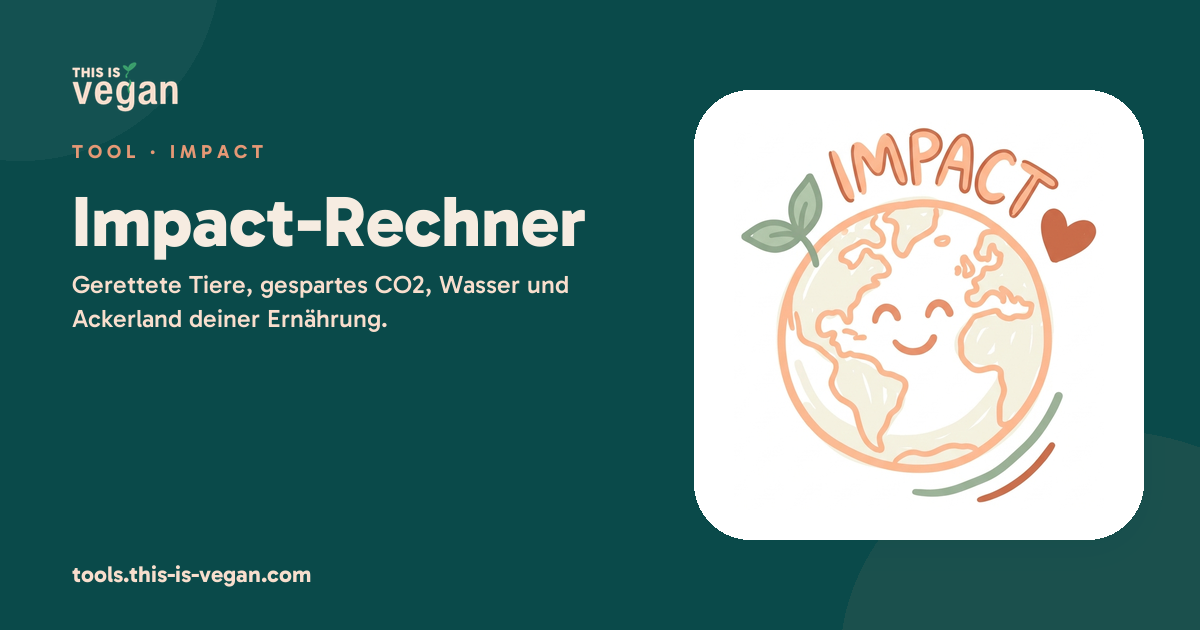
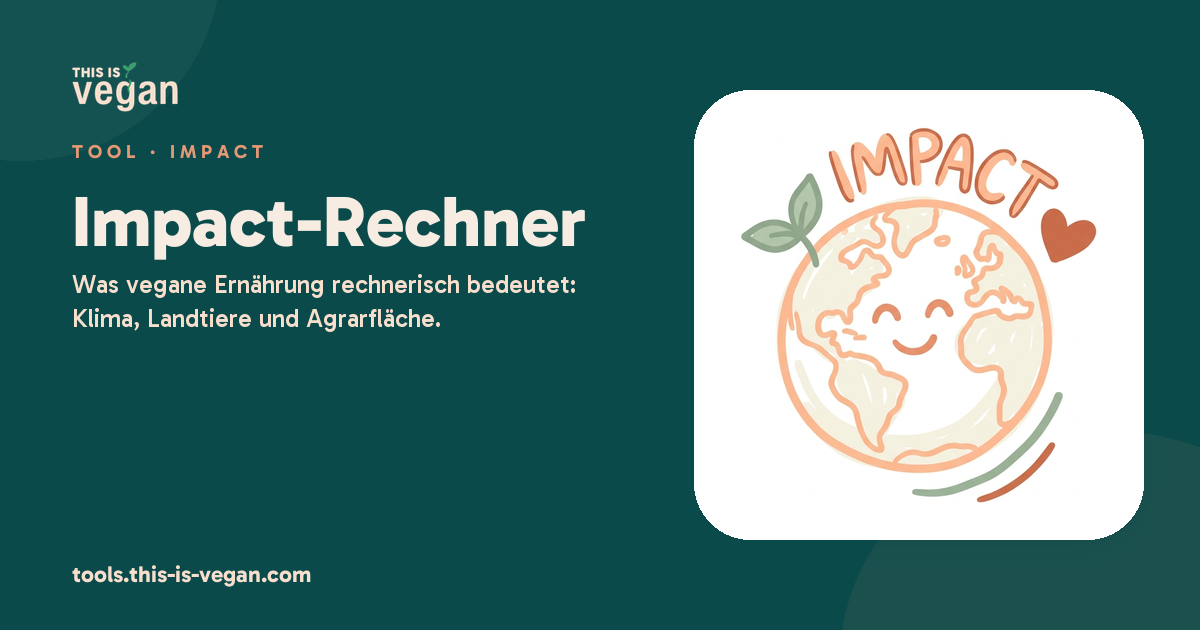
Impact-Rechner auf evidenzgepruefte Werte umgestellt (Stand 26.11.2026)
Klima 2,2 kg CO2e pro Tag (UBA-CO2-Rechner 2025), rund 7 Landtiere pro Jahr
(Destatis PM 049/2024, rechnerisch, abgerundet auf volle Tiere), rund 990 m2
Agrarflaeche als feste Groesse (WWF Deutschland 2021). Wasser-Kachel entfaellt,
Methodik-Box mit Quellen-Links und Einschraenkungen. FAQ-Schema, Meta-Texte,
Startseiten-Karte und Link-Vorschaukarte angepasst. Drei Karten: unter 420 px
einspaltig, ab 760 px dreispaltig.

Changed region(s): [[0.0617, 0.4222, 0.4933, 0.5429]]

diff --git a/build.py b/build.py
@@ -391,7 +391,11 @@ footer.site{margin-top:46px;border-top:1px solid var(--line);padding:32px 0 90px
 .iunit input{font-family:var(--serif);font-weight:700;font-size:24px;width:120px;text-align:center;border:2px solid var(--cream);border-radius:13px;padding:12px;background:var(--cream);color:var(--ink)}
 .iunit input:focus{outline:none;border-color:var(--green)}
 .stats{display:grid;grid-template-columns:repeat(2,1fr);gap:14px;margin:30px auto 0;max-width:760px}
-@media(min-width:760px){.stats{grid-template-columns:repeat(4,1fr)}}
+.stat:nth-child(3):last-child{grid-column:1/-1}
+@media(max-width:419px){.stats{grid-template-columns:1fr}}
+@media(min-width:760px){.stats{grid-template-columns:repeat(3,1fr)}.stat:nth-child(3):last-child{grid-column:auto}}
+.infobox p+p{margin-top:10px}
+.infobox a{color:var(--green-deep);font-weight:700}
 .stat{background:#fff;color:var(--ink);border:1px solid var(--cardline);border-radius:18px;padding:22px 16px;text-align:center;box-shadow:0 14px 34px -28px rgba(0,0,0,.4)}
 .stat .snum{font-family:var(--serif);font-weight:700;font-size:clamp(26px,5vw,40px);letter-spacing:-.5px;line-height:1;color:var(--green-deep)}
 .stat .slabel{font-family:'Bricolage Grotesque';font-weight:700;font-size:14px;margin-top:9px;color:var(--ink)}
@@ -674,13 +678,15 @@ function fmt(x){ return Math.round(x).toLocaleString('de-DE'); }
 function card(n,l,e){ return '<div class="stat"><div class="snum">'+n+'</div><div class="slabel">'+l+'</div><div class="seq">'+e+'</div></div>'; }
 function render(){
   const d = days();
-  const animals = P.animals*d, co2 = P.co2_kg*d, water = P.water_l*d, land = P.land_m2*d;
-  const co2str = co2>=1000 ? fmt(co2/1000)+' t' : fmt(co2)+' kg';
+  // Klima summiert sich ueber die Tage. Landtiere: nur volle Tiere (abgerundet). Flaeche: feste Groesse, kein Tageswert.
+  const co2 = P.co2_kg_pro_tag*d;
+  const animals = Math.floor(P.landtiere_pro_jahr*d/365 + 1e-9);
+  const dec = x => x.toLocaleString('de-DE',{maximumFractionDigits:1});
+  const co2str = co2>=1000 ? dec(co2/1000)+' t' : (co2<10 ? dec(co2) : fmt(co2))+' kg';
   document.getElementById('stats').innerHTML =
-    card(fmt(animals), 'Tiere gerettet', 'die meisten davon Fische') +
-    card(co2str, 'CO2 gespart', 'wie rund '+fmt(co2/0.12)+' km im Auto') +
-    card(fmt(water)+' L', 'Wasser gespart', 'rund '+fmt(water/150)+' volle Badewannen') +
-    card(fmt(land)+' m²', 'Ackerland gespart', 'das sonst für Tierfutter draufginge');
+    card(co2str, 'Weniger Treibhausgase', dec(P.co2_kg_pro_tag)+' kg CO2e pro Tag, verglichen mit der durchschnittlichen Ernährung in Deutschland') +
+    card(fmt(animals), 'Landtiere, rechnerisch', 'rund '+fmt(P.landtiere_pro_jahr)+' pro Jahr, überwiegend Hühner. Fische sind nicht mitgezählt') +
+    card(fmt(P.flaeche_m2)+' m²', 'Weniger Agrarfläche', 'gerundet, dauerhaft. Feste Größe, die sich nicht über die Tage summiert');
 }
 const inp = document.getElementById('amt');
 if(inp){ inp.addEventListener('input', ()=>{ const v=parseFloat(inp.value); if(v>0 && v<100000){ amount=v; render(); } }); }
@@ -1782,7 +1788,7 @@ def build_hub(meta, adds, ings, nutrients):
     <a class="toolcard" href="{url(IMPACT_BASE)}">
       <span class="badge">Live</span>
       <h3>Impact-Rechner</h3>
-      <p>Sieh, was deine vegane Ernährung bewegt: gerettete Tiere, gespartes CO2, Wasser und Ackerland. Zeitraum eingeben, Ergebnis teilen.</p>
+      <p>Sieh, was deine vegane Ernährung rechnerisch bewegt: Klima, Landtiere und Agrarfläche, mit Quellen. Zeitraum eingeben, Ergebnis sehen.</p>
       <span class="meta">Wirkung sehen →</span>
     </a>
     <a class="toolcard" href="{url(FOOD_BASE)}">
@@ -2997,13 +3003,21 @@ IMPACT_BASE = "/impact-rechner/"
 
 
 def build_impact(meta):
-    js = IMPACT_JS.replace("__DATA__", json.dumps(meta["per_day"], ensure_ascii=False, separators=(",", ":")))
+    js = IMPACT_JS.replace("__DATA__", json.dumps(meta["werte"], ensure_ascii=False, separators=(",", ":")))
+    m = meta["methodik"]
+    methodik_html = f'<p><b>So rechnen wir:</b> {esc(m["einleitung"])}</p>' + "".join(
+        f'<p><b>{esc(g["name"])}:</b> {esc(g["text"])} Quelle: '
+        f'<a href="{esc(g["url"])}" target="_blank" rel="noopener">{esc(g["quelle"])}</a>.</p>'
+        for g in m["groessen"]
+    ) + "".join(
+        f'<p><b>{esc(h["name"])}:</b> {esc(h["text"])}</p>' for h in m["hinweise"]
+    ) + f'<p>Stand der Prüfung: {esc(german_date(meta["lastUpdated"]))}.</p>'
     body = site_header("Impact-Rechner") + f"""
 <nav class="crumbs" aria-label="Breadcrumb"><a href="{url('/')}">Tools</a><span>›</span>Impact-Rechner</nav>
 <section class="hero">
   <div class="eyebrow">Zahlen, die motivieren</div>
   <h1>Was du wirklich <span class="q">bewegst.</span></h1>
-  <p class="sub">Gib ein, wie lange du schon vegan lebst, und sieh, was das für Tiere, Klima, Wasser und Ackerland bedeutet.</p>
+  <p class="sub">Gib ein, wie lange du schon vegan lebst, und sieh, was das rechnerisch für Klima, Tiere und Agrarfläche bedeutet.</p>
 
   <div class="iunit">
     <input id="amt" type="number" value="1" min="1" max="99999" inputmode="numeric" aria-label="Zeitraum">
@@ -3015,13 +3029,13 @@ def build_impact(meta):
   </div>
 
   <div class="stats" id="stats"></div>
-  <div class="infobox" style="margin-left:auto;margin-right:auto"><b>So rechnen wir:</b> {esc(meta["methodik"])}</div>
+  <div class="infobox" style="margin-left:auto;margin-right:auto;text-align:left">{methodik_html}</div>
 </section>
 
 <section class="section">
-  <h2>Warum jeder Tag zählt</h2>
-  <p class="prose">Diese Zahlen sind keine Abrechnung, sondern eine Erinnerung. Jede Mahlzeit ohne tierische Produkte senkt die Nachfrage, und Nachfrage ist am Ende das Einzige, worauf die Lebensmittelindustrie reagiert. Du musst nicht perfekt sein, damit sich etwas bewegt.</p>
-  <p class="prose">Teil dein Ergebnis mit Leuten, die noch zögern. Konkrete Zahlen überzeugen oft mehr als jedes Argument.</p>
+  <h2>So liest du die Zahlen</h2>
+  <p class="prose">Klima und Landtiere summieren sich über die Zeit: Jeder vegane Tag zählt rechnerisch mit. Die Fläche summiert sich nicht. Eine vegane Ernährung beansprucht dauerhaft rund 990 m² weniger Agrarfläche, nach einem Monat genauso wie nach zehn Jahren.</p>
+  <p class="prose">Alle Werte sind Durchschnittswerte für Deutschland und bewusst vorsichtig gewählt. Beim Klima kommen andere Quellen auf mehr, etwa WWF Deutschland 2021 auf rund 3,4 kg CO2e pro Tag. Die Quellen und alles, was nicht mitgezählt ist, stehen oben unter „So rechnen wir“.</p>
 </section>
 
 <section class="section">
@@ -3043,17 +3057,21 @@ def build_impact(meta):
             "applicationCategory": "LifestyleApplication",
             "operatingSystem": "Web",
             "offers": {"@type": "Offer", "price": "0", "priceCurrency": "EUR"},
-            "description": "Zeigt, wie viele Tiere, wie viel CO2, Wasser und Ackerland eine vegane Ernährung über einen Zeitraum spart.",
+            "description": "Zeigt für einen Zeitraum, was eine vegane gegenüber der durchschnittlichen Ernährung in Deutschland rechnerisch bedeutet: Treibhausgase, Landtiere und Agrarfläche, mit Quellen.",
             "publisher": {"@type": "Organization", "name": "This Is Vegan", "url": MAIN_SITE},
         },
         {
             "@context": "https://schema.org",
             "@type": "FAQPage",
             "mainEntity": [
-                {"@type": "Question", "name": "Wie viele Tiere rettet man als Veganer?",
-                 "acceptedAnswer": {"@type": "Answer", "text": "Konservativ geschätzt rund 100 Tiere pro Jahr, der größte Teil davon Fische und Meerestiere. Die Zahl beruht auf vermiedener Nachfrage und schwankt je nach Quelle zwischen etwa 30 und über 400."}},
-                {"@type": "Question", "name": "Wie viel CO2 spart eine vegane Ernährung?",
-                 "acceptedAnswer": {"@type": "Answer", "text": "Im Vergleich zu einer durchschnittlichen Ernährung rund 2,5 kg CO2-Äquivalent pro Tag, also etwa 0,9 Tonnen im Jahr. Studien zur Ernährungs-Ökobilanz nennen je nach Annahmen unterschiedliche Werte."}},
+                {"@type": "Question", "name": "Wie viel CO2 verursacht eine vegane Ernährung weniger?",
+                 "acceptedAnswer": {"@type": "Answer", "text": "Im Vergleich zur durchschnittlichen Ernährung in Deutschland rund 2,2 kg CO2-Äquivalente pro Tag, also 0,81 Tonnen im Jahr. Grundlage ist der CO2-Rechner des Umweltbundesamts (Datenstand 2025): 1,57 Tonnen gegenüber 0,76 Tonnen pro Person und Jahr. Andere Studien nennen höhere Werte, WWF Deutschland 2021 etwa rund 3,4 kg pro Tag."}},
+                {"@type": "Question", "name": "Wie viele Landtiere entfallen rechnerisch auf die Ernährung einer Person in Deutschland?",
+                 "acceptedAnswer": {"@type": "Answer", "text": "Rechnerisch rund 7 Landtiere pro Person und Jahr, überwiegend Hühner. Grundlage sind die Schlachtzahlen des Statistischen Bundesamts für 2023 (rund 750 Millionen Landtiere), umgerechnet über den Verzehr pro Kopf laut BLE. Fische und männliche Küken sind nicht mitgezählt. Die Zahl ist ein Durchschnittswert, einem einzelnen Menschen lässt sich kein einzelnes Tier zuordnen."}},
+                {"@type": "Question", "name": "Wie viel Fläche braucht eine vegane Ernährung weniger?",
+                 "acceptedAnswer": {"@type": "Answer", "text": "Rund 990 m² Agrarfläche weniger, dauerhaft. WWF Deutschland (2021) nennt 2.022 m² pro Person und Jahr für die derzeitige und 1.030 m² für eine vegane Ernährungsweise. Das ist kein Tageswert, der sich aufsummiert, sondern eine feste Größe."}},
+                {"@type": "Question", "name": "Warum zeigt der Rechner keine Wasserzahl?",
+                 "acceptedAnswer": {"@type": "Answer", "text": "Weil es dafür keine belastbare Grundlage gibt. Belegt sind in britischen Daten 370 bis 480 Liter pro Tag beim gesamten Wasserverbrauch, überwiegend Regenwasser. Beim knappen Bewässerungswasser findet eine Meta-Analyse nur 11,6 % weniger, einzelne Studien für Deutschland gar keinen Vorteil."}},
             ],
         },
         {
@@ -3066,8 +3084,8 @@ def build_impact(meta):
         },
     ]
     return page(
-        "Veganer Impact-Rechner: Tiere, CO2 und Wasser, die du sparst | This Is Vegan",
-        "Sieh, wie viele Tiere, wie viel CO2, Wasser und Ackerland deine vegane Ernährung spart. Zeitraum eingeben, sofort dein persönliches Ergebnis sehen. Kostenlos.",
+        "Veganer Impact-Rechner: Klima, Tiere und Fläche in Zahlen | This Is Vegan",
+        "Was vegane Ernährung in Deutschland rechnerisch bedeutet: 2,2 kg CO2e weniger pro Tag, rund 7 Landtiere pro Jahr, rund 990 m² weniger Agrarfläche. Mit Quellen.",
         IMPACT_BASE,
         body,
         jsonld,
@@ -5434,7 +5452,7 @@ def main():
     impact_full = json.loads((ROOT / "data" / "impact-data.json").read_text(encoding="utf-8"))
     impact_cfg = {
         "lastUpdated": impact_full["meta"]["lastUpdated"],
-        "per_day": impact_full["per_day"],
+        "werte": impact_full["werte"],
         "methodik": impact_full["methodik"],
     }
 

diff --git a/_handover_tmp/make_og_cards.py b/_handover_tmp/make_og_cards.py
@@ -37,7 +37,7 @@ CARDS = {
     "vegan-ersetzen": ("TOOL · ERSETZEN", "Vegan-Ersatz-Finder", "Ei, Butter, Käse, Gelatine: die beste pflanzliche Alternative mit Menge."),
     "naehrstoffrechner": ("TOOL · NÄHRSTOFFE", "Nährstoff-Rechner", "Protein, B12, Eisen, Omega-3 und Calcium für deinen Bedarf."),
     "ist-das-vegan": ("TOOL · CHECK", "Ist das vegan?", "Lebensmittel eingeben und die versteckten tierischen Fallen sofort sehen."),
-    "impact-rechner": ("TOOL · IMPACT", "Impact-Rechner", "Gerettete Tiere, gespartes CO2, Wasser und Ackerland deiner Ernährung."),
+    "impact-rechner": ("TOOL · IMPACT", "Impact-Rechner", "Was vegane Ernährung rechnerisch bedeutet: Klima, Landtiere und Agrarfläche."),
     "saisonkalender": ("TOOL · SAISON", "Saisonkalender", "Welches Obst und Gemüse gerade regional Saison hat, Monat für Monat."),
     "pflanzendrink-vergleich": ("TOOL · VERGLEICH", "Pflanzendrink-Vergleich", "Hafer, Soja, Mandel und Co. für Kaffee, Backen, Protein und Klima."),
     "protein-tabelle": ("TOOL · PROTEIN", "Protein-Tabelle", "Die proteinreichsten pflanzlichen Lebensmittel, durchsuchbar pro 100 g."),
